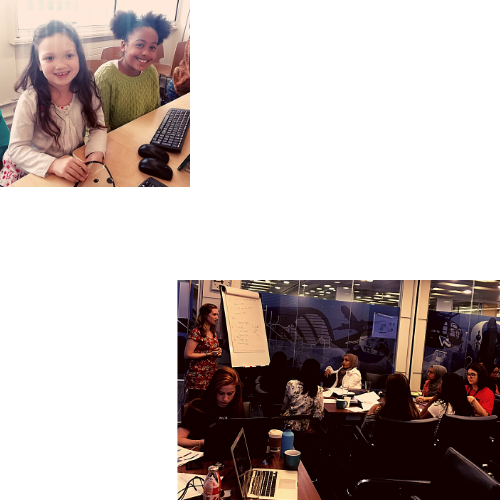
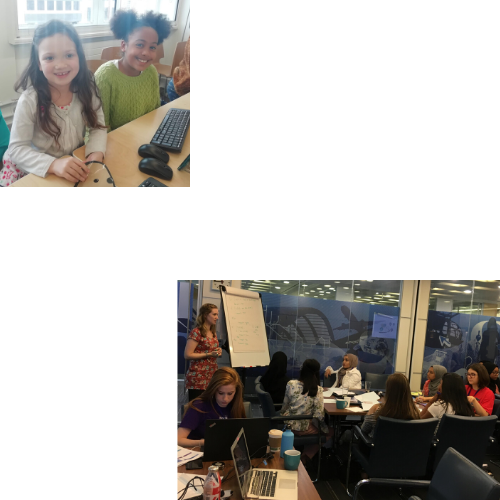
images resized to make load time quicker. Contact page now has images on mobile version.

Changed region(s): [[0.33, 0.54, 1.0, 1.0], [0.0, 0.0, 0.39, 0.39]]

diff --git a/contact.html b/contact.html
@@ -87,10 +87,45 @@
 				</div>
 			</div>
 			<br/>
-			<div class="row begin">
-                <div class="single">
-                    <h2> &nbsp;</h2>
-                    <img class="contact-side" src="css/img/contact_1.png"/>
+			<div class="row-large col-small begin">
+				<div class="single small-screen">
+					<div class="row">
+						<div class="single begin left">
+							<img class="contact-side" src="css/img/potato.jpg"/>
+						</div>			
+						<div class="single">	
+							<p> &nbsp;</p>
+							<p> &nbsp;</p>		
+						</div>
+						
+						<div class="double right">
+							<img class="contact-side" src="css/img/kpmg_2018_1.jpg"/>
+							
+						</div>
+					</div>
+				</div>
+                <div class="single big-screen">
+					<div class="row">
+						<div class="single begin left">
+							<img class="contact-side" id="potato-contact" src="css/img/potato.jpg"/>
+						</div>
+						<!-- <div class="double">
+							
+						</div> -->
+					</div>
+					<div class="row-large">
+						<div class="single">	
+							<p> &nbsp;</p>
+							<p> &nbsp;</p>		
+						</div>
+					</div>
+					<div class="row-large col-small">
+						<div class="single right">
+							<img class="contact-side" id="kpmg-contact" src="css/img/kpmg_2018_1.jpg"/>
+							
+						</div>
+					</div>
+                    <!-- <img class="contact-side" src="css/img/contact_1.png"/> -->
 
                 </div>
                 <div class="double contact-border">
@@ -110,11 +145,51 @@
                     <p> humans[at]taughtbyhumans[dot]com </p>
 
                 </div>
-                <div class="single">
+                <!-- <div class="single">
                     <h2> &nbsp;</h2>
                     <img class="contact-side" src="css/img/contact_2.png"/>
 
-                </div>
+				</div> -->
+				<div class="single small-screen">
+					<div class="row">
+						<div class="double left">
+							<img class="contact-side" src="css/img/worldpay.jpg"/>
+						</div>			
+						<div class="single">	
+							<p> &nbsp;</p>
+							<p> &nbsp;</p>		
+						</div>
+						
+						<div class="single right">
+							<img class="contact-side" src="css/img/tottenham.jpg"/>
+							
+						</div>
+					</div>
+				</div>
+				<div class="single big-screen">
+					<div class="row">
+						<div class="single begin right">
+							<img class="contact-side" id="worldpay-contact" src="css/img/worldpay.jpg"/>
+						</div>
+						<!-- <div class="double">
+							
+						</div> -->
+					</div>
+					<div class="row">
+						<div class="single">
+							<p> &nbsp;</p>		
+							<p> &nbsp;</p>				
+						</div>
+					</div>
+					<div class="row">
+						<div class="single left">
+							<img class="contact-side" id="tot-contact" src="css/img/tottenham.jpg"/>
+							
+						</div>
+					</div>
+					<!-- <img class="contact-side" src="css/img/contact_1.png"/> -->
+
+				</div>
 				
 			</div>
 

diff --git a/kids.html b/kids.html
@@ -136,25 +136,25 @@
                 <div class="single">
                     <p class="no-bottom-margin"> Past Highlights</p>
                     <div class="kids-highlight">
-                        <img class="img-standard-width img-standard-op" src="css/img/paddle_jan19_1.png"/>
+                        <img class="img-standard-width img-standard-op" src="css/img/paddle_jan19_1.jpg"/>
                     </div>
                 </div>
                 <div class="single">
                     <p class="no-bottom-margin"> &nbsp;</p>
                     <div class="kids-highlight">
-                        <img class="img-standard-width img-standard-op" src="css/img/tottenham.png"/> 
+                        <img class="img-standard-width img-standard-op" src="css/img/tottenham.jpg"/> 
                     </div>
                 </div>
                 <div class="single big-screen">
                     <p class="no-bottom-margin"> &nbsp;</p>
                     <div class="kids-highlight">
-                        <img class="img-standard-width img-standard-op" src="css/img/paddle_jan19_3.png"/>
+                        <img class="img-standard-width img-standard-op" src="css/img/paddle_jan19_3.jpg"/>
                     </div>
                 </div>
                 <div class="single big-screen">
                     <p class="no-bottom-margin"> &nbsp;</p>
                     <div class="kids-highlight">
-                        <img class="img-standard-width img-standard-op" src="css/img/potato.png"/>
+                        <img class="img-standard-width img-standard-op" src="css/img/potato.jpg"/>
                     </div>
                 </div>			
                 	
@@ -162,12 +162,12 @@
             <div class="row small-screen">
                 <div class="single">
                     <div class="kids-highlight">
-                        <img class="img-standard-width img-standard-op" src="css/img/paddle_jan19_3.png"/>
+                        <img class="img-standard-width img-standard-op" src="css/img/paddle_jan19_3.jpg"/>
                     </div>
                 </div>
                 <div class="single">
                     <div class="kids-highlight">
-                        <img class="img-standard-width img-standard-op" src="css/img/potato.png"/>
+                        <img class="img-standard-width img-standard-op" src="css/img/potato.jpg"/>
                     </div>
                 </div>	
             </div>

diff --git a/adults.html b/adults.html
@@ -105,7 +105,7 @@
                 </div> 
                 <div class="double">
                     <p class="big-screen"> &nbsp;</p>
-                    <video class="spreadsheet-school" poster="css/img/spreadsheet_school_session_1_placeholder.png" controls>
+                    <video class="spreadsheet-school" poster="css/img/spreadsheet_school_session_1_placeholder.jpg" controls>
                         <source src="css/vid/Spreadsheet_School_SnS_1.mp4" type="video/mp4">
                         Your browser does not support HTML video.
                       </video>
@@ -127,11 +127,11 @@
                     <p class="smaller-p left-padding"> CodePen in an in-browser website builder. It's really useful as you don't need to download any software or worry about where files are on your computer.</p>
                 </div>
                 <div class="single">
-                    <a href="https://codepen.io/pen/" target="__blank"><img class="img-standard-width" src="css/img/newPen.png"/></a>
+                    <a href="https://codepen.io/pen/" target="__blank"><img class="img-standard-width" src="css/img/newPen.jpg"/></a>
                     <p class="smaller-p left-padding"> <a href="https://codepen.io/pen/" target="__blank"> <span class="link">New Pen</span></a></p>
                 </div>
                 <div class="single">
-                    <a href="https://codepen.io/lauralikespi/pen/WJaqJe" target="__blank"><img class="img-standard-width" src="css/img/htmlBasicsPen.png"/></a>
+                    <a href="https://codepen.io/lauralikespi/pen/WJaqJe" target="__blank"><img class="img-standard-width" src="css/img/htmlBasicsPen.jpg"/></a>
                     <p class="smaller-p left-padding"> <a href="https://codepen.io/lauralikespi/pen/WJaqJe" target="__blank"><span class="link"> Notes made by Laura</span></a></p>
                 </div>
             </div>

diff --git a/css/main.css b/css/main.css
@@ -265,7 +265,7 @@ ul {
 		cursor: pointer;
 		color: grey;
 	}
-	.big-screen, #banner-large, #big-note, .contact-side {
+	.big-screen, #banner-large, #big-note {
 		display: none;
 	}
 	.thin-border {
@@ -413,4 +413,12 @@ a.anchor {
     position: relative;
     top: -250px; /* NEEDS TO BE MADE MORE RESPONSIVE */
     visibility: hidden;
+}
+
+
+#potato-contact, #tot-contact {
+	width: 50%;
+}
+#kpmg-contact, #worldpay-contact {
+	width: 80%;
 }

diff --git a/index.html b/index.html
@@ -89,8 +89,8 @@
 			<br/>
 			<div class="row main">
 				<div class="single">
-					<img id="banner-large" class="bannerImg" src="css/img/banner.png"/>
-					<img id="banner-small" class="bannerImg" src="css/img/banner-small.png"/>
+					<img id="banner-large" class="bannerImg" src="css/img/banner.jpg"/>
+					<img id="banner-small" class="bannerImg" src="css/img/banner-small.jpg"/>
 				</div>
 
 			</div>
